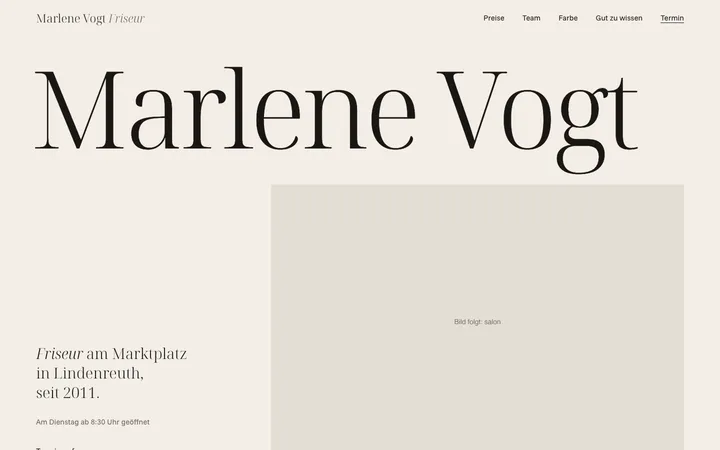
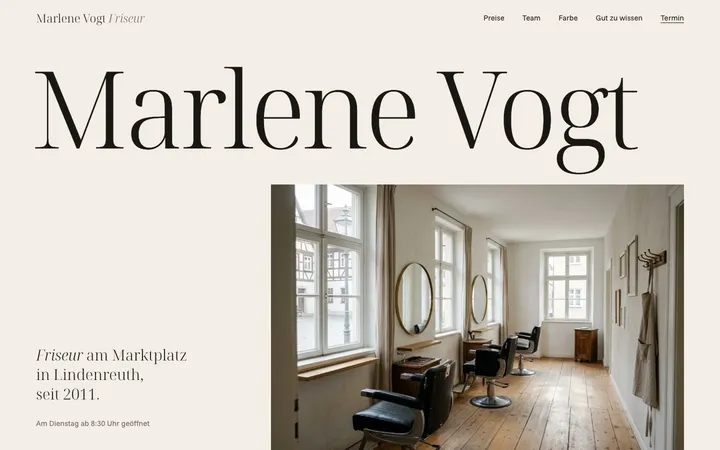
Friseur-Demo: echte Bilder eingebaut
Sechs KI-Bilder von Veit (Salon, Schnitt, Marlene, Selin, Jonas, Spiegel)
als WebP in 800 px und Originalbreite, Alt-Texte passend zum Bildinhalt.
Jonas im eigenen Querformat mit breiter Spalte im Team, Lea-Satz in die
Lücke unter Marlene. Vorschaubild og.jpg aus dem Salonbild, neue
Portfolio-Screenshots. Bild „farbe“ fehlt noch (Platzhalter).

diff --git a/beispiele/friseur/index.html b/beispiele/friseur/index.html
@@ -11,7 +11,12 @@
 <meta property="og:description" content="Demo-Website eines fiktiven Friseursalons im Fichtelgebirge, gestaltet von HWA – Höhn Web &amp; Automatisierung.">
 <meta property="og:type" content="website">
 <meta property="og:url" content="https://hwa-hoehn.de/beispiele/friseur/">
+<meta property="og:image" content="https://hwa-hoehn.de/beispiele/friseur/img/og.jpg">
+<meta property="og:image:width" content="1200">
+<meta property="og:image:height" content="630">
+<meta property="og:image:alt" content="Salon Marlene Vogt mit drei Friseurstühlen, Beispielprojekt von HWA">
 <meta property="og:locale" content="de_DE">
+<meta name="twitter:card" content="summary_large_image">
 <link rel="preload" href="fonts/noto-serif-display-latin-300-normal.woff2" as="font" type="font/woff2" crossorigin>
 <link rel="preload" href="fonts/funnel-sans-latin-400-normal.woff2" as="font" type="font/woff2" crossorigin>
 <link rel="stylesheet" href="style.css">
@@ -52,7 +57,7 @@
           <a href="#termin" class="link-line">Termin anfragen</a>
         </div>
         <figure class="hero-figure img-reveal">
-          <img src="img/salon-800.webp" srcset="img/salon-800.webp 800w, img/salon-1600.webp 1600w" sizes="(min-width: 900px) 66vw, calc(100vw - 40px)" alt="Salon im ersten Stock mit hohen Fenstern zum Marktplatz, Vormittagslicht auf den Holzdielen und drei Spiegelplätzen" width="2400" height="1600" fetchpriority="high">
+          <img src="img/salon-800.webp" srcset="img/salon-800.webp 800w, img/salon-1264.webp 1264w" sizes="(min-width: 900px) 66vw, calc(100vw - 40px)" alt="Leerer Salon mit drei schwarzen Friseurstühlen vor runden Spiegeln, hohe Fenster mit Blick auf Fachwerkhäuser am Marktplatz, alte Holzdielen" width="1264" height="848" fetchpriority="high">
         </figure>
       </div>
     </div>
@@ -63,7 +68,7 @@
     <div class="wrap intro-grid">
       <p class="statement reveal">Ein kleiner Salon im ersten Stock, vier Plätze und genug Zeit für jeden Kopf. Vor dem ersten Schnitt setzen wir uns zusammen und reden darüber, wie Ihr Haar im <em>Alltag</em> liegen soll.</p>
       <figure class="intro-figure img-reveal">
-        <img src="img/schnitt-800.webp" srcset="img/schnitt-800.webp 800w, img/schnitt-1600.webp 1600w" sizes="(min-width: 900px) 30vw, 70vw" alt="Hände schneiden mit Kamm und Schere eine Strähne nassen Haares" width="1600" height="2000" loading="lazy">
+        <img src="img/schnitt-800.webp" srcset="img/schnitt-800.webp 800w, img/schnitt-928.webp 928w" sizes="(min-width: 900px) 30vw, 70vw" alt="Hände schneiden mit Kamm und Schere eine Strähne nassen Haares, dahinter das Fenster zum Marktplatz" width="928" height="1152" loading="lazy">
         <figcaption>Schneiden, nass und in Ruhe.</figcaption>
       </figure>
     </div>
@@ -138,19 +143,19 @@
       </div>
       <div class="team">
         <figure class="person person-lead">
-          <div class="img-reveal"><img src="img/team-marlene-800.webp" srcset="img/team-marlene-800.webp 800w, img/team-marlene-1600.webp 1600w" sizes="(min-width: 900px) 46vw, calc(100vw - 40px)" alt="Marlene Vogt, Friseurmeisterin, am Fenster des Salons" width="1600" height="2000" loading="lazy"></div>
+          <div class="img-reveal"><img src="img/team-marlene-800.webp" srcset="img/team-marlene-800.webp 800w, img/team-marlene-928.webp 928w" sizes="(min-width: 900px) 40vw, calc(100vw - 40px)" alt="Marlene Vogt, Friseurmeisterin, im schwarzen Hemd am Fenster des Salons" width="928" height="1152" loading="lazy"></div>
           <figcaption class="reveal"><span class="person-name">Marlene Vogt</span> <em>Meisterin, seit 2011</em><span class="person-text">Kurzhaarschnitte und alles, was ohne Föhn gut aussehen soll.</span></figcaption>
         </figure>
         <figure class="person">
-          <div class="img-reveal"><img src="img/team-selin-800.webp" srcset="img/team-selin-800.webp 800w, img/team-selin-1600.webp 1600w" sizes="(min-width: 900px) 30vw, calc(100vw - 40px)" alt="Selin Aydın, Friseurin, mit einem Färbepinsel am Arbeitsplatz" width="1600" height="2000" loading="lazy"></div>
+          <div class="img-reveal"><img src="img/team-selin-800.webp" srcset="img/team-selin-800.webp 800w, img/team-selin-928.webp 928w" sizes="(min-width: 900px) 24vw, calc(100vw - 40px)" alt="Selin Aydın, Friseurin, mit Färbepinsel und Farbschale an ihrem Arbeitsplatz" width="928" height="1152" loading="lazy"></div>
           <figcaption class="reveal"><span class="person-name">Selin Aydın</span> <em>Farbe, seit 2018</em><span class="person-text">Balayage und leise Wechsel, die erst auf den zweiten Blick auffallen.</span></figcaption>
         </figure>
-        <figure class="person">
-          <div class="img-reveal"><img src="img/team-jonas-800.webp" srcset="img/team-jonas-800.webp 800w, img/team-jonas-1600.webp 1600w" sizes="(min-width: 900px) 30vw, calc(100vw - 40px)" alt="Jonas Pfeiffer, Friseur, mit Kamm und Haarschneidemaschine" width="1600" height="2000" loading="lazy"></div>
+        <figure class="person person-wide">
+          <div class="img-reveal"><img src="img/team-jonas-800.webp" srcset="img/team-jonas-800.webp 800w, img/team-jonas-1264.webp 1264w" sizes="(min-width: 900px) 48vw, calc(100vw - 40px)" alt="Jonas Pfeiffer, Friseur, mit Kamm in der Hand an einen Friseurstuhl gelehnt" width="1264" height="848" loading="lazy"></div>
           <figcaption class="reveal"><span class="person-name">Jonas Pfeiffer</span> <em>Herren, seit 2021</em><span class="person-text">Klassische Schnitte mit sauberem Übergang, Bärte mit dem Messer.</span></figcaption>
         </figure>
+        <p class="team-note reveal">Dazu Lea, im zweiten Lehrjahr. Wir bilden jedes Jahr aus, ein Probetag ist jederzeit möglich.</p>
       </div>
-      <p class="team-note reveal">Dazu Lea, im zweiten Lehrjahr. Wir bilden jedes Jahr aus, ein Probetag ist jederzeit möglich.</p>
     </div>
   </section>
 
@@ -178,7 +183,7 @@
         <footer>Marlene Vogt</footer>
       </blockquote>
       <figure class="quote-figure img-reveal">
-        <img src="img/spiegel-800.webp" srcset="img/spiegel-800.webp 800w, img/spiegel-1600.webp 1600w" sizes="(min-width: 900px) 34vw, 80vw" alt="Kundin mit frisch geschnittenem Bob betrachtet ihren Hinterkopf im Handspiegel" width="1600" height="2400" loading="lazy">
+        <img src="img/spiegel-800.webp" srcset="img/spiegel-800.webp 800w, img/spiegel-848.webp 848w" sizes="(min-width: 900px) 34vw, 80vw" alt="Kundin mit frisch geschnittenem Bob prüft ihre Frisur im Handspiegel, Marlene Vogt schaut lächelnd zu" width="848" height="1264" loading="lazy">
       </figure>
     </div>
   </section>

diff --git a/beispiele/friseur/style.css b/beispiele/friseur/style.css
@@ -126,15 +126,16 @@ figcaption { font-family: var(--display); font-style: italic; font-size: 17px; c
 /* ===== Team ===== */
 .team { display: grid; grid-template-columns: repeat(12, minmax(0, 1fr)); gap: 64px clamp(20px, 2vw, 32px); }
 .team { align-items: start; }
-.person-lead { grid-column: 1 / 6; }
-.person:nth-child(2) { grid-column: 7 / 10; margin-top: clamp(80px, 14vw, 240px); }
-.person:nth-child(3) { grid-column: 10 / 13; margin-top: clamp(24px, 4vw, 64px); }
+.person-lead { grid-column: 1 / 6; grid-row: 1; }
+.person:nth-child(2) { grid-column: 7 / 11; margin-top: clamp(80px, 12vw, 200px); }
+/* Jonas ist ein Querformat: eigene breite Spalte unter Selin, im eigenen Seitenverhältnis */
+.person-wide { grid-column: 7 / 13; grid-row: 2; }
 .person .img-reveal { overflow: hidden; }
 .person figcaption { font-family: var(--sans); font-style: normal; font-size: 16px; color: var(--ink-2); margin-top: 20px; }
 .person-name { font-family: var(--display); font-size: clamp(26px, 2.4vw, 34px); line-height: 1.1; color: var(--ink); }
 .person figcaption em { display: block; color: var(--stone); font-size: 18px; line-height: 1.3; margin-top: 4px; }
 .person-text { display: block; margin-top: 8px; max-width: 24em; }
-.team-note { margin-top: clamp(64px, 8vw, 112px); max-width: 36em; color: var(--ink-2); }
+.team-note { grid-column: 1 / 6; grid-row: 2; align-self: end; max-width: 26em; color: var(--ink-2); font-family: var(--display); font-size: clamp(22px, 1.9vw, 28px); line-height: 1.35; }
 
 /* ===== Farbe ===== */
 .farbe-grid { display: grid; grid-template-columns: repeat(12, minmax(0, 1fr)); gap: 56px clamp(20px, 2vw, 32px); align-items: center; }
@@ -244,9 +245,10 @@ figcaption { font-family: var(--display); font-style: italic; font-size: 17px; c
   .hero-intro { max-width: 16em; }
   .statement { grid-column: 1 / -1; }
   .intro-figure { grid-column: 4 / -1; margin-top: 0; }
-  .person-lead { grid-column: 1 / 9; }
-  .person:nth-child(2) { grid-column: 1 / 7; margin-top: 0; }
-  .person:nth-child(3) { grid-column: 7 / -1; margin-top: clamp(48px, 12vw, 120px); }
+  .person-lead { grid-column: 1 / 8; grid-row: auto; }
+  .person:nth-child(2) { grid-column: 8 / -1; margin-top: clamp(80px, 16vw, 160px); }
+  .person-wide { grid-column: 2 / -1; grid-row: auto; }
+  .team-note { grid-column: 1 / -1; grid-row: auto; }
   .farbe-figure { grid-column: 1 / 10; }
   .farbe-text { grid-column: 1 / -1; }
   .quote { grid-column: 1 / -1; }
@@ -270,8 +272,8 @@ figcaption { font-family: var(--display); font-style: italic; font-size: 17px; c
   .wordmark { font-size: 21px; }
   .intro-figure { grid-column: 3 / -1; }
   .person-lead { grid-column: 1 / -1; }
-  .person:nth-child(2) { grid-column: 1 / -1; }
-  .person:nth-child(3) { grid-column: 1 / -1; margin-top: 0; }
+  .person:nth-child(2) { grid-column: 1 / -1; margin-top: 0; }
+  .person-wide { grid-column: 1 / -1; }
   .person-text { max-width: none; }
   .farbe-figure { grid-column: 1 / -1; }
   .quote-figure { grid-column: 3 / -1; }

diff --git a/beispiele/friseur/img/BILDNACHWEIS.md b/beispiele/friseur/img/BILDNACHWEIS.md
@@ -3,18 +3,20 @@
 Alle Bilder dieser Beispielseite sind KI-generiert und zeigen keine realen
 Räume oder Personen. Der Salon Marlene Vogt Friseur ist fiktiv.
 
-**Stand:** Noch Platzhalter („Bild folgt“). Die Bilder werden mit den Prompts
-unten erzeugt, als WebP in 800 und 1600 px Breite abgelegt und hier eingetragen.
+Bildgrößen: WebP in 800 px und in der Originalbreite (Qualität 78/80).
+**Stand 25.10.2026:** Sechs Bilder sind da, `farbe` ist noch ein Platzhalter („Bild folgt“).
+Jonas kam im Querformat und wird im Querformat gezeigt (eigene breite Spalte im Team).
 
 | Datei | Format | Motiv | Erstellt mit |
 |---|---|---|---|
-| salon | 3:2 quer | Salon im ersten Stock, Morgenlicht, keine Personen | – |
-| schnitt | 4:5 hoch | Hände schneiden nasses Haar | – |
-| team-marlene | 4:5 hoch | Marlene Vogt, Meisterin | – |
-| team-selin | 4:5 hoch | Selin Aydın, Farbe | – |
-| team-jonas | 4:5 hoch | Jonas Pfeiffer, Herren | – |
-| farbe | 4:5 hoch | Farbe wird auf Strähnen in Folie aufgetragen | – |
-| spiegel | 2:3 hoch | Kundin prüft ihren Bob im Handspiegel | – |
+| salon | 3:2 quer, 1264 px | Leerer Salon, Fenster zum Marktplatz | KI (von Veit generiert) |
+| schnitt | 4:5 hoch, 928 px | Hände schneiden nasses Haar | KI (von Veit generiert) |
+| team-marlene | 4:5 hoch, 928 px | Marlene Vogt, Meisterin | KI (von Veit generiert) |
+| team-selin | 4:5 hoch, 928 px | Selin Aydın, Farbe | KI (von Veit generiert) |
+| team-jonas | 3:2 quer, 1264 px | Jonas Pfeiffer, Herren | KI (von Veit generiert) |
+| spiegel | 2:3 hoch, 848 px | Kundin prüft ihren Bob im Handspiegel | KI (von Veit generiert) |
+| farbe | 4:5 hoch | Farbe wird auf Strähnen in Folie aufgetragen | fehlt noch |
+| og.jpg | 1200 × 630 | Vorschaubild für geteilte Links, aus salon | – |
 
 ## Prompts
 
